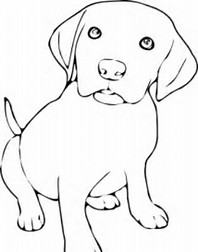
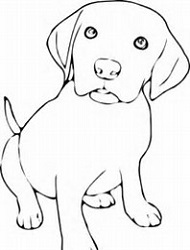
fixed styles and added color, need different font for header

diff --git a/index.html b/index.html
@@ -14,23 +14,24 @@
     <header>
       <a href="index.html" id="logo">
         <h1>Juan Juarez </h1>
-        <h2>Developer</h2>
+        <h1>Developer</h1>
       </a>
       <nav>
         <ul>
           <li><a href="index.html" class="selected">Portfolio</a></li>
-          <li><a href="about.html">About</a></li>
-          <li><a href="contact.html">Contact</a></li>
           <li><a href="">Resume</a></li>
+          <a href="https://www.linkedin.com/in/juan-juarez-3a5877132/" class="ss-linkedin"> Linkedin</a>
+          <a href="https://github.com/juanjuar457" class="ss-github"> Github</a>
         </ul>
       </nav>
+
     </header>
       <section>
           <div class="row pnl">
         <div class="col-md-6">
           <a href="http://www.google.com">
-            <div class="projectImage">
-            <img src="assets/dogart.jpg" alt="The Pet Chooser Capstone Project" class="pull-right">
+            <div class="projectImage pull-right">
+            <img src="assets/dogart.jpg" alt="The Pet Chooser Capstone Project" id="dog" >
             </div>
           </a>
         </div>
@@ -48,19 +49,20 @@
                 <a href="https://github.com/juanjuar457/PetChooserAPI" class="ss-icon">Github</a>
                 <a href="http://jbjuarez.net" class="ss-icon">Link</a>
               </div>
-        </p>
+
+          </p>
         </div>
       </div>
         <div class="row pnl">
           <div class="col-md-6">
             <a href="http://www.google.com">
-              <div class="projectImage">
-              <img src="assets/ofl0.1.jpg" alt="order for later v0.1" class="pull-right">
+              <div class="projectImage pull-right">
+              <img src="assets/ofl0.1.jpg" alt="order for later v0.1" id="truck">
               </div>
             </a>
           </div>
           <div class="col-md-6">
-              <h2>Order For Later</h2>
+              <h1>Order For Later</h1>
               <p>
                 Order For Later is a web app that serves as a white board replacement for the compounding pharmacy<br>
                 I work in. Each department requires different materials to be ordered throughout the week and <br>
@@ -72,8 +74,8 @@
                 Order For Later uses, javascript, jquery, node.js and express and MongoDB for the Database structure.<br>
 
                 <div>
-                  <a href=""></a>
-                  <a href=""></a>
+            <a href="https://github.com/juanjuar457/OrderForLater" class="ss-icon">Github</a>
+            <a href="https://peaceful-spire-20005.herokuapp.com/main_page.html" class="ss-icon">Link</a>
                 </div>
               </p>
           </div>
@@ -81,13 +83,13 @@
         <div class="row pnl">
           <div class="col-md-6">
             <a href="http://www.google.com">
-              <div class="projectImage">
-                <img src="assets/otcreservehelper.jpg" alt="" class="pull-right">
+              <div class="projectImage pull-right">
+                <img src="assets/otcreservehelper.jpg" id="memo">
               </div>
             </a>
           </div>
           <div class="col-md-6">
-              <h2>OTC reserve helper</h2>
+              <h1>OTC reserve helper</h1>
               <p>
                 This Single page project was made with javascript and jQuery, <br>
                 It uses the Petfinder API and the Etsy API, each load a dog from their <br>
@@ -98,17 +100,16 @@
 
                 It allows a user to choose a real dog on a red square to adopt or lets <br>
                 a user to buy a stuffed animal for a
-
+            <div>
+              <a href="https://github.com/juanjuar457/OTCcustomerReserveHelper" class="ss-icon">Github</a>
+              <a href="https://still-mountain-85787.herokuapp.com/" class="ss-icon">Link</a>
+            </div>
               </p>
           </div>
         </div>
       </section>
       <footer>
-        <!--put linkedin and github here-->
-        <!--include the symbols pack, for git hub, linkedin etc...-->
-        <a href=""></a>
-        <a href=""></a>
-        <p>&copy; 2017 Juan Juarez</p>
+        &copy; 2017 Juan Juarez
       </footer>
   </body>
 </html>

diff --git a/css/main.css b/css/main.css
@@ -18,24 +18,47 @@ a {
   text-decoration: none;
 }
 
-.projectImage img {
-  opacity: 0.4;
-}
 
 h3 {
   margin: 0 0 1em 0;
 }
 
-.pnl {
-  margin-top: 20px;
+.row {
+  margin-right: 15px;
+  margin-left: 15px;
 }
+
 
 .projectImage {
-  border: solid 2px #3f3f3f;
-  border-radius: 6px;
+  padding:1px;
+  border:2px solid #3f3f3f;
+  height: 250px;
+  width: 250px;
+  margin-top: 20px;
+  opacity: 0.4;
+  border-radius: 15px;
 }
 
+#truck {
+  display: block;
+  height: 200px;
+  width: 200px;
+  margin: 25px;
+}
 
+#dog {
+  display: block;
+  height: 238px;
+  width: 181px;
+  margin: 3px 35px;
+}
+
+#memo {
+  display: block;
+  height: 225px;
+  width: 203px;
+  margin: 12px 22px;
+}
 /**********************************
 HEADING
 ***********************************/
@@ -213,7 +236,7 @@ header {
 
 /* logo text */
 h1, h2 {
-  color: #000;
+  color: #fff;
 }
 
 /* links */
